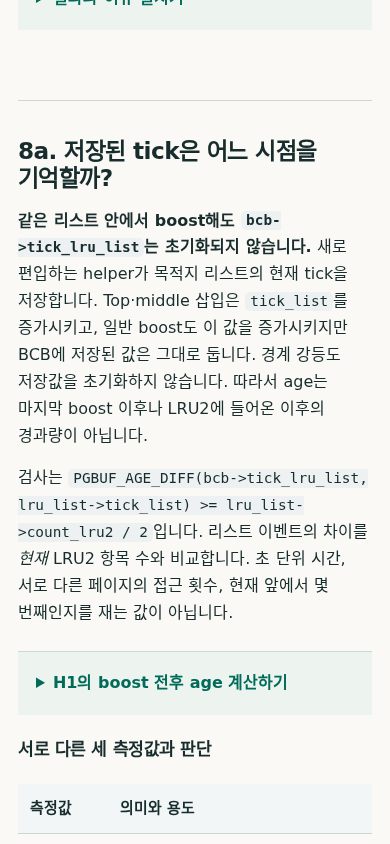
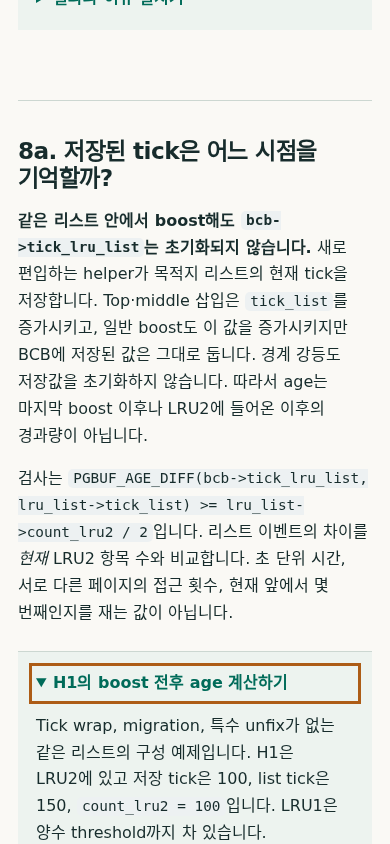
Record LRU coverage rebase and integrated verification

diff --git a/docs/lru-lesson-coverage-audit.md b/docs/lru-lesson-coverage-audit.md
@@ -22,7 +22,7 @@ searched for keywords. Existing adequate explanations remain in place.
 | 7. Private-index assignment | Sufficient: zero-session/fewest-page priority, activity fallback, reuse by sessions, not per fix | Retained Lecture 0012B `assignment`: [EN](../en/lessons/0012b-understand-private-lru-index.html#assignment), [KO](../ko/lessons/0012b-understand-private-lru-index.html#assignment). No duplicate added. |
 | 8. LRU1 overflow after LRU2 promotion | General aging present; exact promotion/boundary example missing | Added positive-threshold 2/2 → 3/1 → 2/2 example in Lecture 0007 `boost-boundary`: [EN](../en/lessons/0007-replace-one-frame.html#boost-boundary), [KO](../ko/lessons/0007-replace-one-frame.html#boost-boundary). One linked list; demotion changes metadata without relinking S1. |
 | 9. Mutex scope and demoted BCB flags | Missing as an explicit worked protocol | Added caller-held H1 BCB mutex, continuous list mutex across remove/insert/adjust/sanity, unlocked adjustment helper, CAS flags and no separate S1 BCB lock in `boost-boundary`. Distinguishes LRU2 boost from LRU3 adjustment and states `min_one` scope. |
-| 10. Private/shared rules and hypothetical AOUT | Active/dormant admission table sufficient; concrete expected trade-offs and revival tasks too terse | Retained Lecture 0007 `admission` comparison. Extended Lecture 0012A `effect` and `boundary`: [EN](../en/lessons/0012a-understand-aout-ghost-history.html#effect), [KO](../ko/lessons/0012a-understand-aout-ghost-history.html#effect). Added same-domain ghost-hit/miss example, history expiration/index reuse limits, and concurrency/memory/policy/measurement tasks. Forced-zero behavior and unknown historical root cause remain explicit. |
+| 10. Private/shared rules and hypothetical AOUT | Active/dormant admission table sufficient; concrete expected trade-offs and revival tasks too terse | Retained Lecture 0007 rule comparison (moved from `admission` to `quota` by the new main). Extended Lecture 0012A `effect` and `boundary`: [EN](../en/lessons/0012a-understand-aout-ghost-history.html#effect), [KO](../ko/lessons/0012a-understand-aout-ghost-history.html#effect). Added same-domain ghost-hit/miss example, history expiration/index reuse limits, and concurrency/memory/policy/measurement tasks. Forced-zero behavior and unknown historical root cause remain explicit. |
 
 ## Source verification
 
@@ -51,7 +51,7 @@ Historical AOUT status remains owned by
 [the existing source/history audit](../reference/victim-scan-cap-and-aout-evidence.md)
 and [uncertainty registry](../unresolved-or-version-sensitive-findings.md).
 
-## Verification
+## Original verification before rebase
 
 The task worktree was served at `http://127.0.0.1:3941`, with headless Chromium
 through `/home/vimkim/temp/volmap/web/node_modules/@playwright/test/index.mjs`.
@@ -105,3 +105,29 @@ SEMINAR_URL=http://127.0.0.1:3941 node --test scripts/seminar-browser.test.mjs
 No engine experiment, AOUT enablement, performance result, merge or publication
 is part of this change. Technical examples remain pinned to the verified source;
 final human translation acceptance is still open.
+
+## Rebase verification on current main
+
+The user explicitly requested rebase and merge after reviewing `212bb02`.
+Rebased onto `f5c3f60`; conflicts were limited to the paired Lecture 0007 quota
+section and contents navigation. Resolution preserves main's admission-first
+order, new `session-age` block, and detailed admission/zone comparison relocated
+to `quota`, while retaining this task's queue explanation and new tick/mutex
+sections. All pre-existing section ordering is unchanged after filtering out the
+two new sections. The `admission`, `session-age` and `zones` blocks are identical
+to the destination versions.
+
+After rebase, the maintainer aggregate again passed all source, HTTP and live-DOM
+gates (43 pages, 66 SVGs, 109 resources). The full bilingual aggregate reported
+only 154 human-review receipt/fingerprint messages; it did not report technical,
+link, audience, HTTP or DOM failures. The separate served gate passed 278 HTTP
+resources and 109 live-DOM pages. Human acceptance remains separately open.
+All 57 tests selected by `scripts/seminar*test.mjs` plus the three focused
+replacement/field/AOUT suites passed with headless Chromium and no skips.
+The former foundations `#lru`/`#opt` test failure is fixed in the new main and
+no longer reproduces in the combined tree.
+
+The 24 focused section/mode observations were rerun. Their six page hashes and
+two screenshots now describe the rebased tree, with `sourceBase = f5c3f60` in the
+observation file. The earlier verification section is historical evidence for
+the original base, not the current integrated test verdict.
